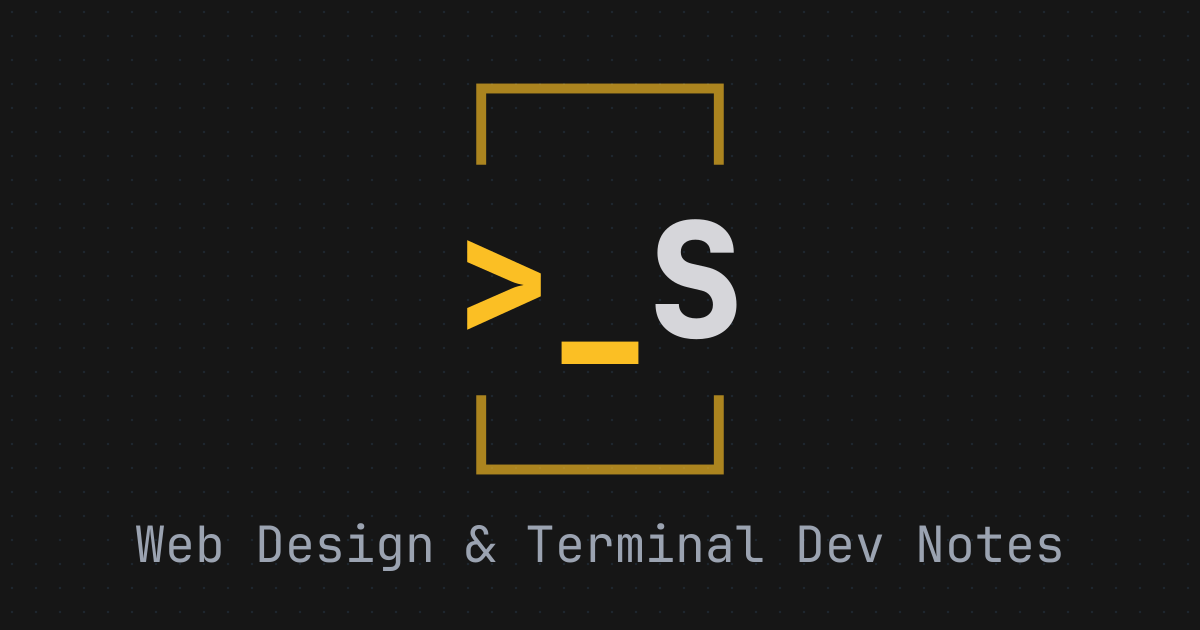
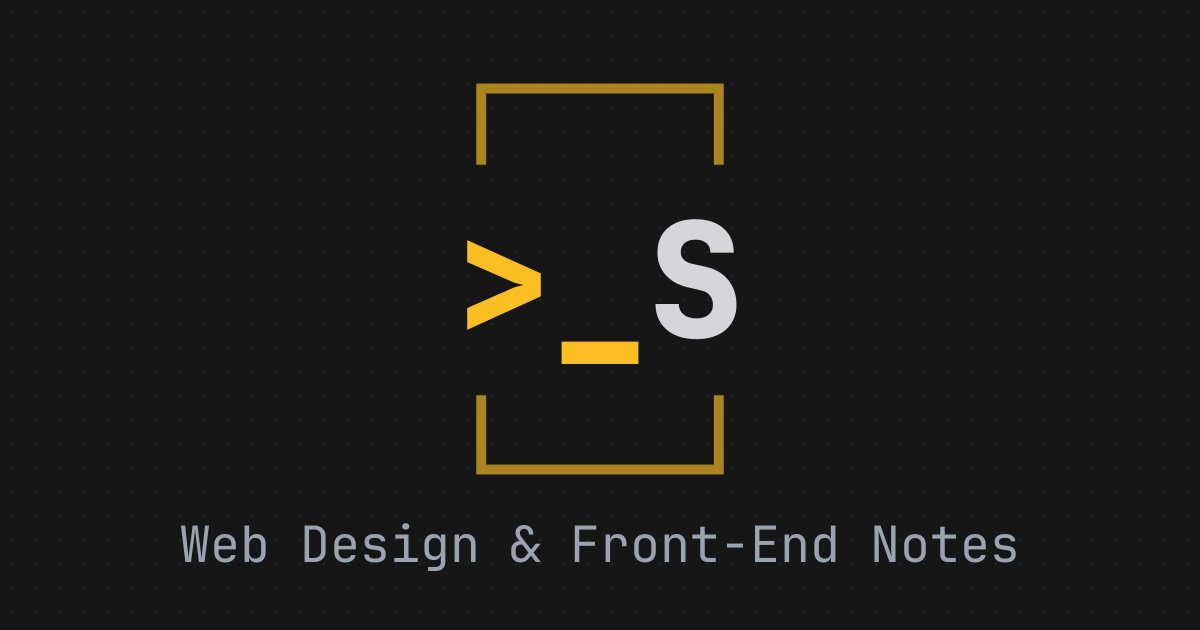
homepage: align title/meta with front-end niche (drop Terminal tagline)

Changed region(s): [[0.0925, 0.8143, 0.8942, 0.9048]]

diff --git a/_data/metadata.js b/_data/metadata.js
@@ -5,7 +5,7 @@ export default {
   description: "Sulistiono's thoughts",
   // Fallback OG image for pages without frontmatter image
   image: "/assets/img/og/home.png",
-  image_alt: "Site logo >_S in amber ASCII box on dark dotted background with tagline: Web Design & Terminal Dev Notes",
+  image_alt: "Site logo >_S in amber ASCII box on dark dotted background with tagline: Web Design & Front-End Notes",
   verification: {
     google: "nGUHc-P1KrLWgaQSmLNdIFM-c0dIvVcOFCXaJGU5-K0",
   },

diff --git a/content/about/index.md b/content/about/index.md
@@ -1,6 +1,7 @@
 ---
 layout: layouts/page.njk
 title: ./sulistiono
+seoTitle: "About Sulistiono — Front-End Developer"
 description: >-
   Sulistiono — web developer and blogger. Vanilla CSS, static sites, writes about
   frontend. Ships mainly from a phone via SSH and sheer stubbornness.
